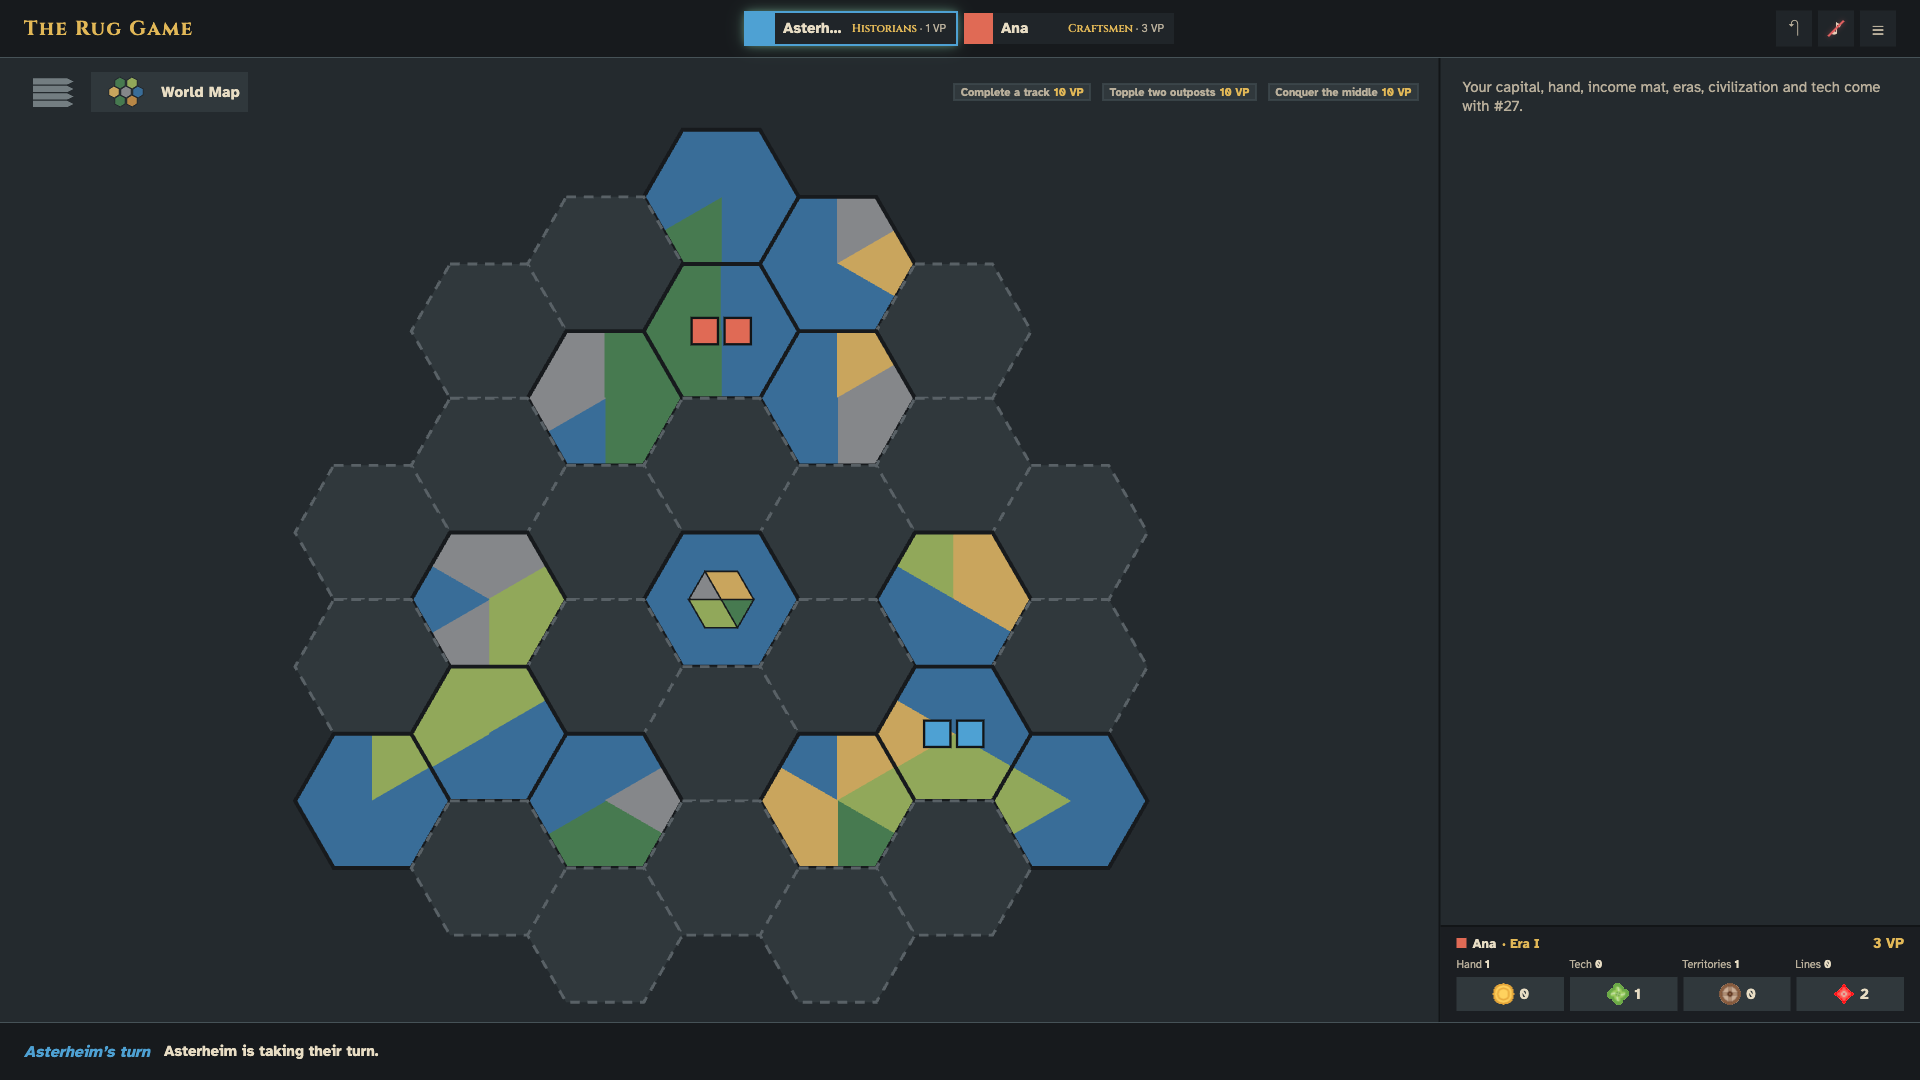
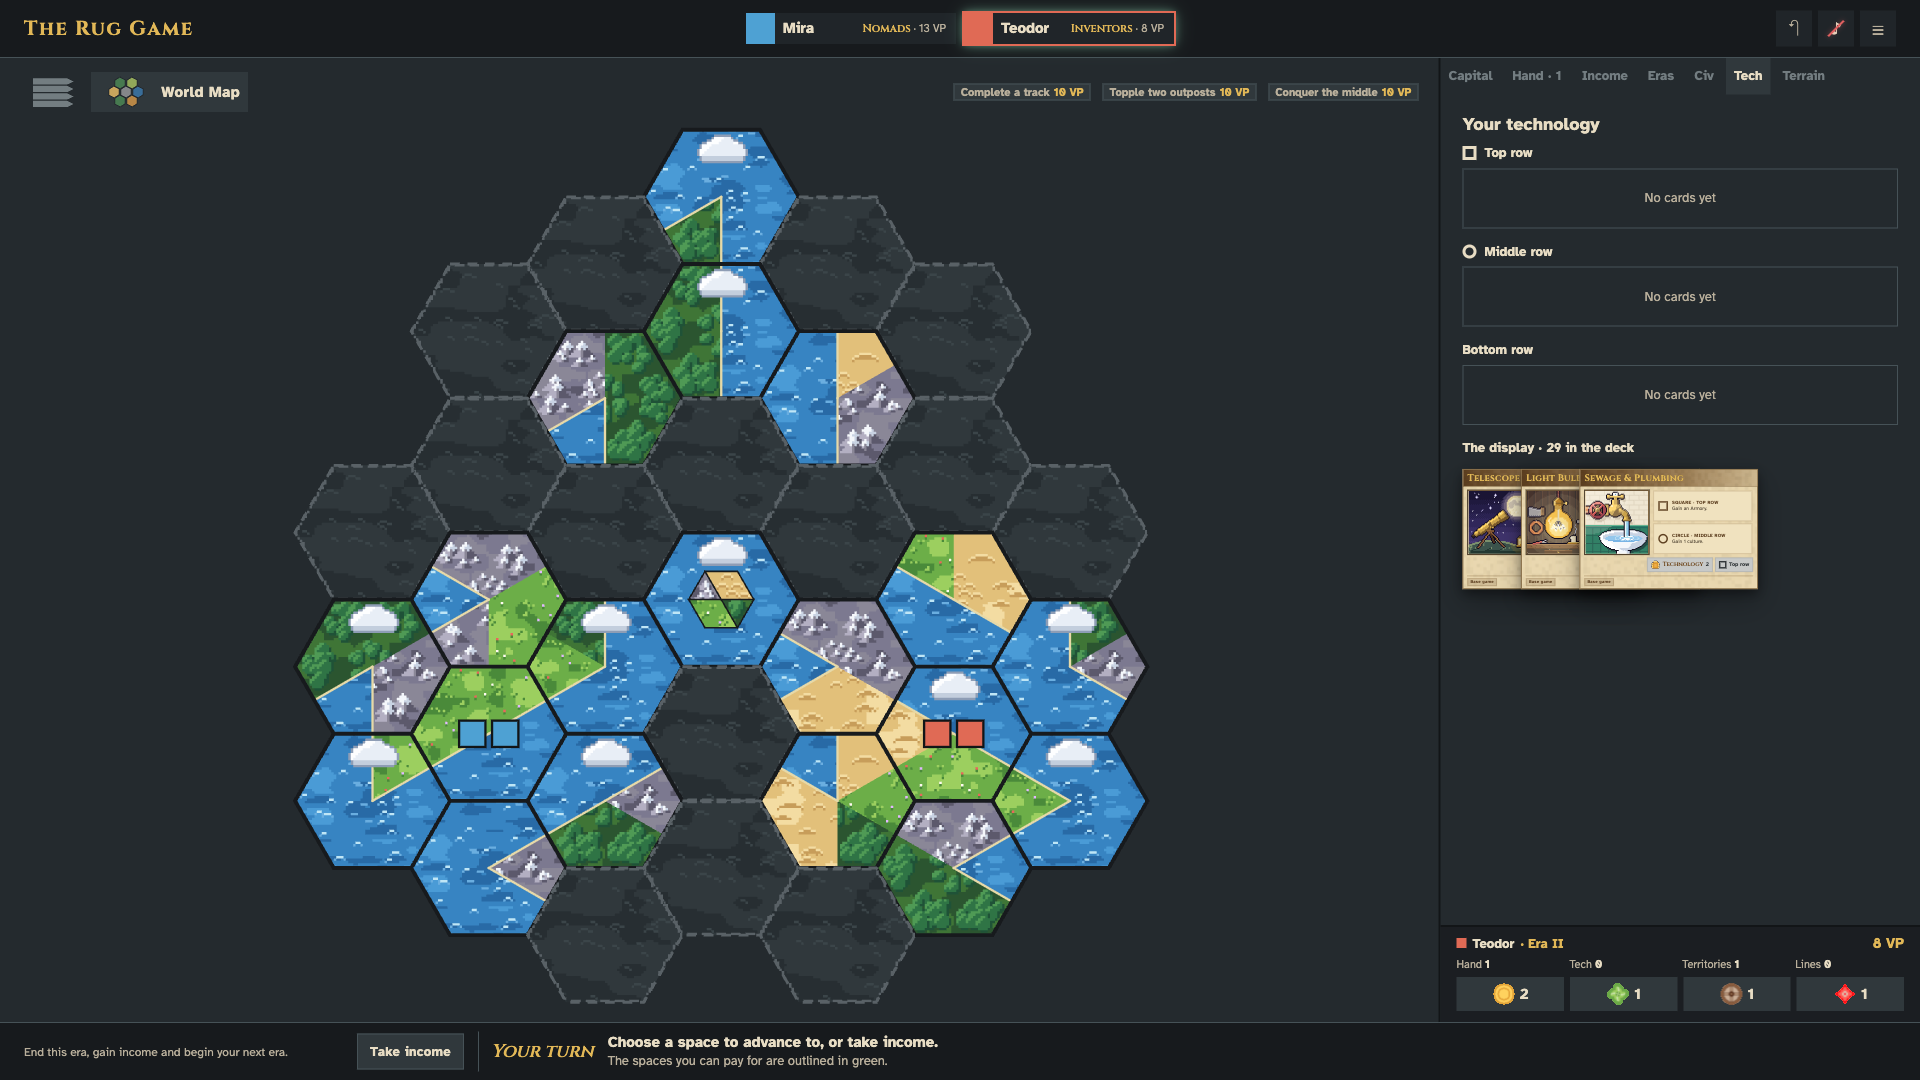
Refs #6: the boards are drawn; the owner's approval in the gallery is left
The map's terrain hex pictures, the 48 territory tiles with R77's clouds, both map sides as examples and the 12
advanced capital biomes are drawn, and the game composes its map from the terrain art. README, docs/ui/README.md and
CLAUDE.md show it, with the map's screenshot from the running game. #6 stays open for the owner's review of the set in
the component library.

diff --git a/CLAUDE.md b/CLAUDE.md
@@ -61,6 +61,7 @@ GitHub Actions runs `npm ci`, `npm run check` and `npm test` on every push.
     - `ui.js` holds the shared interface ids (tracks, resources, terrain, seats) and turns them into token references;
     - `capital.js` holds the capital-grid geometry the interface needs: footprint rotation, legal positions and completed groups;
     - `art/catalog.js` lists all 413 assets with stable `<group>/<slug>` ids. It imports nothing, so the app and the engine can load it;
+    - `art/hex-overlays.js` holds where the cloud and volcano overlays sit in a territory's 64×56 picture, shared by the art and the map (#6);
     - `art/footprints.js` holds the 33 landmark footprints. A landmark's picture is drawn in its footprint's shape at 32 pixels per plot, and the art build refuses one that covers the wrong plots. The rules engine must reuse this module;
     - `engine/` holds the rules engine, shared by the server and the app. It imports only relative paths: no DOM, Svelte or Node. Its `data/` folder holds the base-game data (#12), plain frozen modules: `ids.js` (versions with their tiebreak chains, and the track, resource, building and terrain ids), `effects.js` (the effect vocabulary), `tracks.js`, `income-mat.js`, `capitals.js`, `maps.js`, `territory-tiles.js`, `space-tiles.js`, `tech-cards.js`, `tapestry-cards.js`, `landmarks.js`, `achievements.js` and `dice.js`. Every benefit is a list of one-key effects such as `{ gain: { any: 1 } }`, explained in `docs/superpowers/specs/2026-10-24-base-game-data-design.md`.
     - The engine core (#13) sits beside `data/`. `game.js` is the entry point and exports `createGame`, `play`, `view` and `PlayerError`. The pending decisions live on an operation stack (`stack.js`, run by `loop.js`), where a group gives each player a lane so they decide at the same time. `kinds.js` registers the decision kinds (`decisions/`, each with its hidden fields, legal `answers()`, `check()` and `resolve()`) and the automatic kinds. The effect handlers live in `effects/index.js` (`EFFECTS`); each gets its operation, with the `source` space, as a fourth argument. Advance turns (#14) add `turn.js` (`startTurn`, `endTurn`), `payment.js` (paying costs and discards), `movement.js` (moving tokens, the landmark race, once-per-turn activations, `spacesAdvanced`) and `control.js` (`controlledTerritories`, which #17 reuses). The design is `docs/superpowers/specs/2026-10-24-advance-turns-design.md`. Income turns (#15) add `income.js` (`INCOME_STEPS`, exposed spaces, `neighbours`) and `ranking.js` (`rankPlayers`, `landmarksInCity`); their design is `docs/superpowers/specs/2026-10-24-income-turns-design.md`. Capital placement (#16) adds `city.js` (the plots, the legal places, complete districts and lines) and `placing.js` (`placeBuilding`, `placeLandmark`, `placePiece`); its design is `docs/superpowers/specs/2026-10-24-capital-city-design.md`. Exploring and conquering (#17) add `map.js` (hex neighbours, matching sides, legal hexes and targets), `effects/explore.js` and `effects/conquer.js`; their design is `docs/superpowers/specs/2026-10-24-map-design.md`. Tech cards (#18) add `data/tech-cards.js` (the 33 cards), `tech.js` (the deck, the display and the prerequisites) and `effects/tech.js` (`invent`, `upgrade`, `techBenefit`, `landmark`); their design is `docs/superpowers/specs/2026-10-25-tech-cards-design.md`. Tapestry cards (#19) add `data/tapestry-cards.js` (the 43 cards and the trap), `tapestry.js` (playing a card, the current era, the visible cards), `abilities.js` (the active THIS ERA ability, `triggered()`, advance blocks, allies), `eras.js` (the THIS ERA triggers), `achievements.js`, and `effects/tapestry.js`, `effects/players.js` and `effects/cards.js`; their design is `docs/superpowers/specs/2026-10-25-tapestry-abilities-design.md`. Civilizations (#20) add `civs/` (one module per civilization; `CIVS` and `civsOf` in `civs/index.js`; the `Civ` typedef, `offer` and `placeToken` in `civs/civ.js`), `civ-turns.js` (civilization setup and adjustments, step 1 of income turns, `gainCiv`), `outposts.js` (`takeOutpost`), `terrain.js` (the terrains a territory shows) and `effects/lose.js`; their design is `docs/superpowers/specs/2026-10-25-civilizations-design.md`. Because of the `abilities.js` → `civs/index.js` cycle, nine modules throw a `ReferenceError` when imported first: the civilization modules `civs/architects.js`, `futurists.js`, `heralds.js`, `historians.js`, `inventors.js`, `leaders.js`, `mystics.js` and `the-chosen.js`, and `decisions/choose-prophecy.js`. So import the engine through `game.js`, `kinds.js` or `play.js`. #47's civilization-mat component must import a civilization's data tables through `src/lib/engine/game.js` or `civs/index.js`, never a civilization module first. The setup steps are `SETUP_STEPS` in `setup.js` and `AFTER_SETUP_STEPS` in `after-setup.js`. The optional variants (#53) are `VARIANTS` in `setup.js`, as `{ id, name }`; each is checked in `state.variants` where its rule lives, and `techDeck(variants)` in `decks.js` gives a game's tech cards. `play.js` answers a decision. `state.js` holds the state types and the seat lookups. `events.js` numbers the events. `random.js` holds the injected randomness and the shuffle. `decks.js` lists the base decks. `errors.js` holds `PlayerError`. `table.js` (#24) holds what tables need to know about a game: `askedSeats`, `defaultAction`, `declineOnly`, `revealed`, `timedOut` and `restore`; `state.turn` counts turns (0 in setup). `view.js` is the only way state leaves the server. The design is `docs/superpowers/specs/2026-10-24-engine-core-design.md`.
@@ -73,7 +74,7 @@ GitHub Actions runs `npm ci`, `npm run check` and `npm test` on every push.
   - `scripts/dev.mjs` runs the Node server and Vite side by side. Vite proxies `/api` to the server.
   - The configuration lives in `vite.config.js`, `svelte.config.js` (`runes: true`), `jsconfig.json` (`checkJs`, `strict`, Vite client types), `.prettierrc` and `.prettierignore`.
 - `art/` is the art drawing toolkit (#4), a build-time tool. See `docs/art/README.md`.
-  - `painter.js`, `palette.js` and `parts/` draw style C pixel art. `drawings/<id>.js` holds one module per drawn asset.
+  - `painter.js`, `palette.js` and `parts/` draw style C pixel art. `drawings/<id>.js` holds one module per drawn asset. #6 adds `parts/territory.js` (the terrain hex pictures, the overlays, the territory tiles and the example boards) and `parts/capital-biomes/` (one module per advanced capital biome, each with its `LAYOUT` and `FEATURES`).
   - It reads the asset ids and footprints from `src/lib/art/`.
   - `gallery.js` holds the scene-part samples, the grouping the owner reviews art in, and the check every drawing must pass. It has no Node APIs, so the library page runs it in the browser.
   - `npm run art` writes the SVGs into `static/art/`, which are committed. Tests fail when a committed SVG is out of date.
@@ -347,6 +348,13 @@ Updated 2026-10-27. Update this section whenever a milestone moves.
   - Calls to revisit: the four base civilizations without a recipe (Futurists, Heralds, Nomads, The Chosen) get a plain portrait card until #47; the capital's terrain seed is the table code; the tab mapping per decision; the overview's capital "points" are complete lines.
   - Handed off: #28 (placing on the capital and choosing cards in the tabs), #47 (the missing civilization cards and the card gallery).
   - `tests/client-game-cards`, `client-area-capital`, `client-area-income`, `client-area-terrain`, `client-area-tabs` and `client-area-players` cover it; a two-tab walkthrough checked every tab and the overview.
+- **#6 (the boards)** is drawn (2026-10-27); only the owner's approval in the gallery is left, so the issue stays open. The design is `docs/superpowers/specs/2026-10-27-boards-design.md` and the plan is `docs/superpowers/plans/2026-10-27-boards-issue-6.md`. Built without stopping for approval ("When you are done just finish up #6").
+  - **The map is composed, not painted** (the capital's rule from #5): each terrain has one 64×56 hex picture (`hex/*`, `art/parts/territory.js`), and WorldMap and TerritoryTile fill each wedge and island part with it, clipped, with a coast where land meets sea. A turned tile stays crisp and shows the terrains the engine scores. `territory-tile/1–48` and `board/map-small`/`map-large` are the same composition in pixels, for the gallery; the boards are examples.
+  - **Clouds are game data (R77):** `TERRITORY_TILES` and the printed hexes carry `clouds` and `volcano`. The cloud and volcano overlays sit at spots shared in `src/lib/art/hex-overlays.js` (the volcano on its mountains' corner in every turn); screen readers hear them. #49 scores the clouds.
+  - **The 12 advanced capital biomes** each have 8 buildable and 6 impassable 32×32 plots and an example mat on the printed layout from 03-expansions (`art/parts/capital-biomes/<biome>.js`, `LAYOUT` pinned against the research in each test). What the research doesn't show (rule text, icons, frames) is left out.
+  - **Handed off to #36:** each biome module exports `FEATURES` (its ordinary pools, its position-bound variants such as Quagmire's reeds and wisps, and its mat-only features such as Canyon's cacti or Polar's rings). #36 composes advanced mats in the game from them; `capitalTileUrl` stays base-only, so no special tile lands on a random plot.
+  - A fresh review found no bug in the data or the composition; its art findings (a Cloud City tile, several obstacles that read as something else, beaches round the Archipelago's volcanoes) are fixed, and the overlays now sit at their spots instead of stretching over the hex.
+  - `tests/art-territory`, `art-capital-<biome>` (12), `art-capital-features` and `client-hexmap` cover it.
 - **#28 (the decision prompts)** is done (2026-10-27). The design is `docs/superpowers/specs/2026-10-27-decision-prompts-design.md` and the plan is `docs/superpowers/plans/2026-10-27-decision-prompts-issue-28.md`. Built without stopping for approval ("build all").
   - `promptFor()` gives every open decision a title, an instruction, a layout (`options`, `cards`, `map` or `capital`) and one option per answer with its art; a test over random games checks that every answer is reachable exactly once. Nothing is sent before Confirm.
   - New components, each in the library: `PromptArt`, `CardShelf`, `IncomeSteps`; `DecisionOption` gains `art` and `vp`, `DecisionPanel` `track`, `tone`, `steps` and `docked`, `TurnBar` the `income` tone, `WorldMap` `preview`, `CapitalGrid` `targets`, `preview` and `room`. `CivilizationCard` draws its frame, portrait and name for a civilization without a recipe.
@@ -384,9 +392,10 @@ Updated 2026-10-27. Update this section whenever a milestone moves.
   - Cloud Colonies is back (owner). R77 lists the territories that show clouds, read from BGA's tile and board images, and #49 adds the card. The territory-tile and map art (#6) must show clouds on exactly those territories.
   - The owner-check rules are settled by Board Game Arena for now, not the physical box (owner). 17 are marked **BGA** in the README's "Rules conventions"; R28 and R40 were corrected to match BGA, and R66 now gives the track order from BGA's board images, so Twin Impact is in. R12 and R39 stay owner-check, because BGA has no data for them.
 - **Next:**
-  - #6 (the owner asked for #25–#28, then #6).
+  - The owner reviews #6's art in the component library's Art part (`/components.html#art-parts`) and closes #6.
+  - Then the next unblocked issues by milestone (see "Working on issues").
   - #45 Check R12 (landmark heights) and R39 (decision-card arrows) against the physical box. This is the owner's job, and it blocks nothing.
-  - #6 Finish the remaining map, territory-tile and expansion capital art. The cosmetic boards wait in #51 until the core features are done.
+  - The cosmetic boards wait in #51 until the core features are done.
 - **Everything else is blocked** until earlier issues close (see "Working on issues").
 
 ## Starting on a new computer

diff --git a/README.md b/README.md
@@ -26,7 +26,9 @@ The component library now uses the approved resources in prices and chips, incom
 
 The **UI/UX handoff for #3** is in [docs/ui/README.md](docs/ui/README.md). It is the manifest for building the real game pages: layout, typography, colours, control states, placement and decision examples. The HTML pages are interactive mockups with fixture data.
 
-**The landing page, the lobby (#25) and the play screen (#26) are built** and run on the real table API. Sign in by name, create or join a table, set it up and start; then play: the Advancement Tracks with the spaces you can pay for, the World Map drawn as the real board's hex grid, the footer turn (income, or advance with its payment), and a designed prompt for every other decision (#28): resources and payments with their art, cards on a shelf above the panel, the map's territories with each explore's tile, turn and VP, buildings and landmarks placed on the Capital tab, dice and tracks, and the gold income turn with its steps. The player area (#27) has the Capital, Hand, Income, Eras, Civ, Tech and Terrain tabs, with real tech and tapestry cards, and the header chips open the players overview. A whole base game can be played with the mouse. Run `npm start` and open <http://127.0.0.1:3020/>.
+**The landing page, the lobby (#25) and the play screen (#26) are built** and run on the real table API. Sign in by name, create or join a table, set it up and start; then play: the Advancement Tracks with the spaces you can pay for, the World Map as the real board's hex grid, composed from the terrain art (#6), the footer turn (income, or advance with its payment), and a designed prompt for every other decision (#28): resources and payments with their art, cards on a shelf above the panel, the map's territories with each explore's tile, turn and VP, buildings and landmarks placed on the Capital tab, dice and tracks, and the gold income turn with its steps. The player area (#27) has the Capital, Hand, Income, Eras, Civ, Tech and Terrain tabs, with real tech and tapestry cards, and the header chips open the players overview. A whole base game can be played with the mouse. Run `npm start` and open <http://127.0.0.1:3020/>.
+
+**The boards (#6)** are drawn: the map's six terrain hex pictures, the 48 territory tiles (clouds exactly where R77 says), both map sides as examples, and the 12 advanced capital biomes with their example mats. The game composes its map from the terrain pictures, as it composes the capital from its plot tiles. They wait for the owner's approval in the component library's Art part.
 
 The colours, texture, type, spacing, shadows and motion of these designs are in [src/styles/tokens.css](src/styles/tokens.css), the single source of truth for the look.
 
@@ -36,7 +38,7 @@ The colours, texture, type, spacing, shadows and motion of these designs are in 
 
 | Play: the tracks, with an advance chosen | Play: the World Map |
 |---|---|
-| ![The play screen: the tracks with the payable spaces outlined in green, Rafts selected and the footer offering the advance](docs/ui/screens/game-tracks.png) | ![The play screen: the World Map as the small board's hex grid, with the start outposts and an explored territory](docs/ui/screens/game-map.png) |
+| ![The play screen: the tracks with the payable spaces outlined in green, Rafts selected and the footer offering the advance](docs/ui/screens/game-tracks.png) | ![The play screen: the World Map composed from the terrain art: territories in their turns with coasts, clouds and the start outposts](docs/ui/screens/game-map.png) |
 
 | Play: the player area (Capital) | Play: the players overview |
 |---|---|

diff --git a/docs/ui/README.md b/docs/ui/README.md
@@ -189,7 +189,7 @@ The arrangement and selection styling are the reference. Labels such as Archipel
 
 ![The play screen: the World Map](screens/game-map.png)
 
-- **The World Map** is the real board's hex grid (owner, 2026-10-27): 34 hexes for 1–3 players, 61 for 4–5, flat-topped as on the printed board with start 1 at the top. Each corner of a territory is a wedge of its terrain, an island sits in the middle, and unexplored hexes are dark and dashed. Outposts are squares in the player's colour (toppled ones lie down), tokens are circles. #6's art replaces the drawn terrains later.
+- **The World Map** is the real board's hex grid (owner, 2026-10-27): 34 hexes for 1–3 players, 61 for 4–5, flat-topped as on the printed board with start 1 at the top. Each corner of a territory is a wedge of its terrain, an island sits in the middle, and unexplored hexes are dark and dashed. Outposts are squares in the player's colour (toppled ones lie down), tokens are circles. Since #6 every wedge and island shows its terrain's picture (`hex/*`), clipped to its shape, with a coast where land meets sea and the cloud or volcano where R77 puts them, so a tile in any turn stays crisp and shows the terrains the engine scores.
 - **The spaces a player can pay for** have a green outline; the selected one keeps the gold outline. The footer then shows the space's benefit and bonus in words, its price and **Advance**, and asks for the payment in the decision panel when there is a choice.
 - **The achievements** sit in the head of the shared area, with the claimants' colours and the next VP.
 - **The decision panel** is the mockup's prompt, designed per decision in #28 (below). A map decision lights up its hexes and leaves the map clickable.
